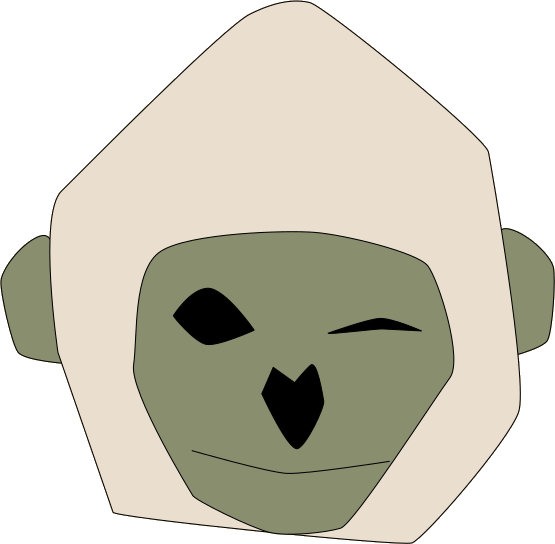
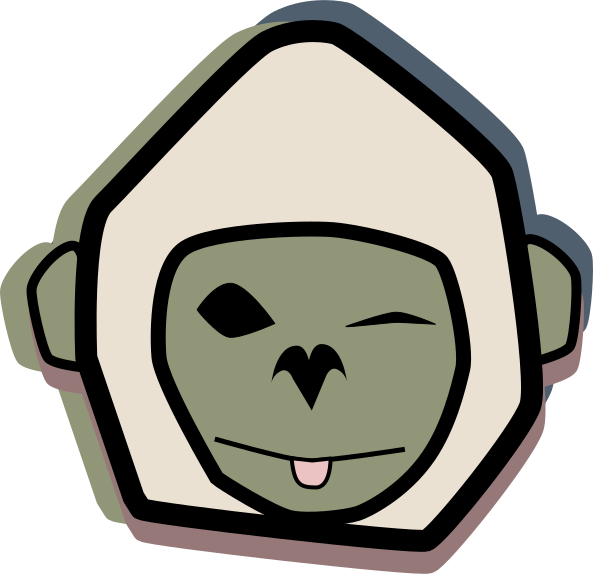
version 0.6.4

diff --git a/src/components/signupForm/signUpArea.js b/src/components/signupForm/signUpArea.js
@@ -22,7 +22,9 @@ function SignUpArea() {
   const [email, setEmail] = useState("");
   const [password, setPassword] = useState("");
   const [userName, setUserName] = useState("");
+  const [emailOk, setEmailOk] = useState(false);
   const [userNameOk, setUserNameOk] = useState(false);
+  const [passwordOk, setPasswordOk] = useState(false);
   const [timer, setTimer] = useState(null);
   const [readyToSignUp, setReadyToSignUp] = useState(false);
 
@@ -64,6 +66,14 @@ function SignUpArea() {
       .catch((error) => alert(error.message));
   };
 
+  const checkEmail = () => {
+    if (email.match(emailRegExp)) {
+      setEmailOk(true);
+    } else {
+      setEmailOk(false);
+    }
+  };
+
   const checkUserName = () => {
     if (userName.match(usernameRegExp) && userName.length >= 5) {
       getDoc(doc(firestore, "users", userName)).then((docSnap) => {
@@ -78,6 +88,14 @@ function SignUpArea() {
     }
   };
 
+  const checkPassword = () => {
+    if (password.match(passwordRegExp)) {
+      setPasswordOk(true);
+    } else {
+      setPasswordOk(false);
+    }
+  };
+
   useEffect(() => {
     if (timer) clearTimeout(timer);
     if (userName.length < 5) {
@@ -89,44 +107,56 @@ function SignUpArea() {
   }, [userName]);
 
   useEffect(() => {
-    if (
-      userNameOk === true &&
-      email.match(emailRegExp) &&
-      password.match(passwordRegExp)
-    ) {
+    checkEmail();
+  }, [email]);
+
+  useEffect(() => {
+    checkPassword();
+  }, [password]);
+
+  useEffect(() => {
+    if (userNameOk && emailOk && passwordOk) {
       setReadyToSignUp(true);
     } else {
       setReadyToSignUp(false);
     }
-  }, [userNameOk, email, password]);
+  }, [userNameOk, emailOk, passwordOk]);
 
   return (
     <div className={styles.welcomePage}>
       <div className={styles.signUpForm}>
         <div className={styles.inputBlock}>
           <label htmlFor="email">{t("signUpArea.email")}:</label>
-          <input
-            type="email"
-            name="email"
-            value={email}
-            className={styles.input}
-            onChange={(event) => setEmail(event.target.value)}
-            autoComplete="email"
-            pattern={emailRegExp}
-            title={t("signUpArea.emailMessage")}
-            required
-          ></input>
+          <div className={styles.inputContainer}>
+            <input
+              id="email"
+              type="email"
+              name="email"
+              value={email}
+              onChange={(event) => setEmail(event.target.value)}
+              autoComplete="email"
+              pattern={emailRegExp}
+              title={t("signUpArea.emailHint")}
+              required
+            ></input>
+            <FontAwesomeIcon
+              icon={emailOk ? faCheck : faTimes}
+              color={emailOk ? "rgb(137, 142, 111)" : "rgb(116, 111, 142)"}
+            />
+          </div>
+          {emailOk ? null : <p>{t("signUpArea.emailMessageWrong")}</p>}
         </div>
         <div className={styles.inputBlock}>
           <label htmlFor="userName">{t("signUpArea.userName")}:</label>
-          <div className={styles.userNameInput}>
+          <div className={styles.inputContainer}>
             <input
+              id="userName"
               type="text"
               name="userName"
               value={userName}
               onChange={(event) => setUserName(event.target.value)}
               autoComplete="nickname"
-              title={t("signUpArea.userNameMessage")}
+              title={t("signUpArea.userNameHint")}
               pattern={usernameRegExp}
               required
             ></input>
@@ -147,20 +177,28 @@ function SignUpArea() {
               }
             />
           </div>
+          {userNameOk ? null : <p>{t("signUpArea.userNameMessageWrong")}</p>}
         </div>
         <div className={styles.inputBlock}>
           <label htmlFor="password">{t("signUpArea.password")}:</label>
-          <input
-            type="password"
-            name="password"
-            value={password}
-            className={styles.input}
-            onChange={(event) => setPassword(event.target.value)}
-            autoComplete="new-password"
-            pattern="(?=.*\d)(?=.*[a-z])(?=.*[A-Z]).{8,}"
-            title={t("signUpArea.passwordMessage")}
-            required
-          ></input>
+          <div className={styles.inputContainer}>
+            <input
+              id="password"
+              type="password"
+              name="password"
+              value={password}
+              onChange={(event) => setPassword(event.target.value)}
+              autoComplete="new-password"
+              pattern="(?=.*\d)(?=.*[a-z])(?=.*[A-Z]).{8,}"
+              title={t("signUpArea.passwordHint")}
+              required
+            ></input>
+            <FontAwesomeIcon
+              icon={passwordOk ? faCheck : faTimes}
+              color={passwordOk ? "rgb(137, 142, 111)" : "rgb(116, 111, 142)"}
+            />
+          </div>
+          {passwordOk ? null : <p>{t("signUpArea.passwordMessageWrong")}</p>}
         </div>
         <div className={styles.buttonsBlock}>
           <Button

diff --git a/src/components/welcomePage/welcomePage.js b/src/components/welcomePage/welcomePage.js
@@ -1,16 +1,23 @@
 import { useContext, useState } from "react";
 import { useNavigate, Link } from "react-router-dom";
-import { getAuth, signInWithEmailAndPassword, signOut } from "firebase/auth";
+import {
+  getAuth,
+  signInWithEmailAndPassword,
+  signOut,
+  sendPasswordResetEmail,
+} from "firebase/auth";
 import Button from "../button/button";
 import styles from "./welcomePage.module.css";
 import UserContext from "../../context/UserContext";
 import logo from "../../misc/gibi_face.png";
 import { useTranslation } from "react-i18next";
+import ModalWindow from "../modalWindow/modalWindow";
 
 function WelcomePage() {
   const user = useContext(UserContext);
   const [email, setEmail] = useState("");
   const [password, setPassword] = useState("");
+  const [showRestoreModal, setShowRestoreModal] = useState(false);
 
   const { t, i18n } = useTranslation();
 
@@ -39,6 +46,21 @@ function WelcomePage() {
     signOut(auth).catch((error) => {
       alert(error);
     });
+  };
+
+  const showRestoreModalWindow = () => {
+    setShowRestoreModal(!showRestoreModal);
+  };
+
+  const restorePassword = () => {
+    const auth = getAuth();
+    sendPasswordResetEmail(auth, email)
+      .then(() => {
+        setShowRestoreModal(false);
+      })
+      .catch((error) => {
+        console.log(error);
+      });
   };
 
   return (
@@ -119,9 +141,49 @@ function WelcomePage() {
                 buttonStyle={styles.signInButton}
                 content={t("welcomePage.signIn")}
               />
+              <Button
+                clickHandler={showRestoreModalWindow}
+                type="button"
+                buttonStyle={styles.restorePasswordButton}
+                content={t("welcomePage.restorePassword")}
+              />
             </div>
             <Link to="/signup">{t("welcomePage.createAccount")}</Link>
           </div>
+          <ModalWindow
+            visibility={showRestoreModal}
+            changeModalVisibility={setShowRestoreModal}
+          >
+            {
+              <>
+                <div className={styles.inputBlock}>
+                  <label htmlFor="email">{t("welcomePage.email")}:</label>
+                  <input
+                    type="email"
+                    name="email"
+                    value={email}
+                    className={styles.input}
+                    onChange={(event) => setEmail(event.target.value)}
+                  ></input>
+                </div>
+                <p>{t("welcomePage.restorePasswordWindow")}</p>
+                <div className={styles.buttonsBlock}>
+                  <Button
+                    clickHandler={restorePassword}
+                    type="button"
+                    buttonStyle={styles.restorePasswordButton}
+                    content={t("welcomePage.restorePassword")}
+                  />
+                  <Button
+                    clickHandler={showRestoreModalWindow}
+                    type="button"
+                    buttonStyle={styles.cancelButton}
+                    content={t("welcomePage.cancelButton")}
+                  />
+                </div>
+              </>
+            }
+          </ModalWindow>
         </>
       )}
     </div>

diff --git a/src/components/welcomePage/welcomePage.module.css b/src/components/welcomePage/welcomePage.module.css
@@ -115,7 +115,17 @@
   background-color: red;
 }
 
-.signInButton {
+.buttonsBlock {
+  width: 100%;
+  display: flex;
+  justify-content: center;
+  align-items: center;
+  gap: 20px;
+}
+
+.signInButton,
+.restorePasswordButton,
+.cancelButton {
   border: none;
   border-radius: 5px;
   height: 30px;
@@ -125,8 +135,13 @@
   background-color: rgb(137, 142, 111);
 }
 
-.signInButton:hover {
+.signInButton:hover,
+.restorePasswordButton:hover {
   background-color: rgb(116, 111, 142);
+}
+
+.cancelButton:hover {
+  background-color: red;
 }
 
 .langButtons {

diff --git a/src/components/signupForm/signUpArea.module.css b/src/components/signupForm/signUpArea.module.css
@@ -28,22 +28,18 @@
   width: 300px;
 }
 
-.input {
-  margin: 10px auto;
-  width: 100%;
-  border: none;
-  border-bottom: 2px solid rgb(137, 142, 111);
-  background-color: transparent;
-  outline: none;
+.inputBlock p {
+  font-size: 10px;
+  color: red;
 }
 
-.userNameInput {
+.inputContainer {
   display: flex;
   border-bottom: 2px solid rgb(137, 142, 111);
   width: 100%;
 }
 
-.userNameInput input {
+.inputContainer input {
   border: none;
   background-color: transparent;
   outline: none;

diff --git a/public/index.html b/public/index.html
@@ -1,4 +1,4 @@
-<!-- Gibi tracker app v0.6.3 by bukulele -->
+<!-- Gibi tracker app v0.6.4 by bukulele -->
 <!DOCTYPE html>
 <html lang="en">
   <head>

diff --git a/README.md b/README.md
@@ -1,6 +1,14 @@
 # ACTION TRACKER APP
 
+#### version 0.6.4
+
+- hints for signup area added
+- restoring password function added
+- updated logo
+
 #### version 0.6.3
+
+- settings area done
 
 #### version 0.6.2
 
